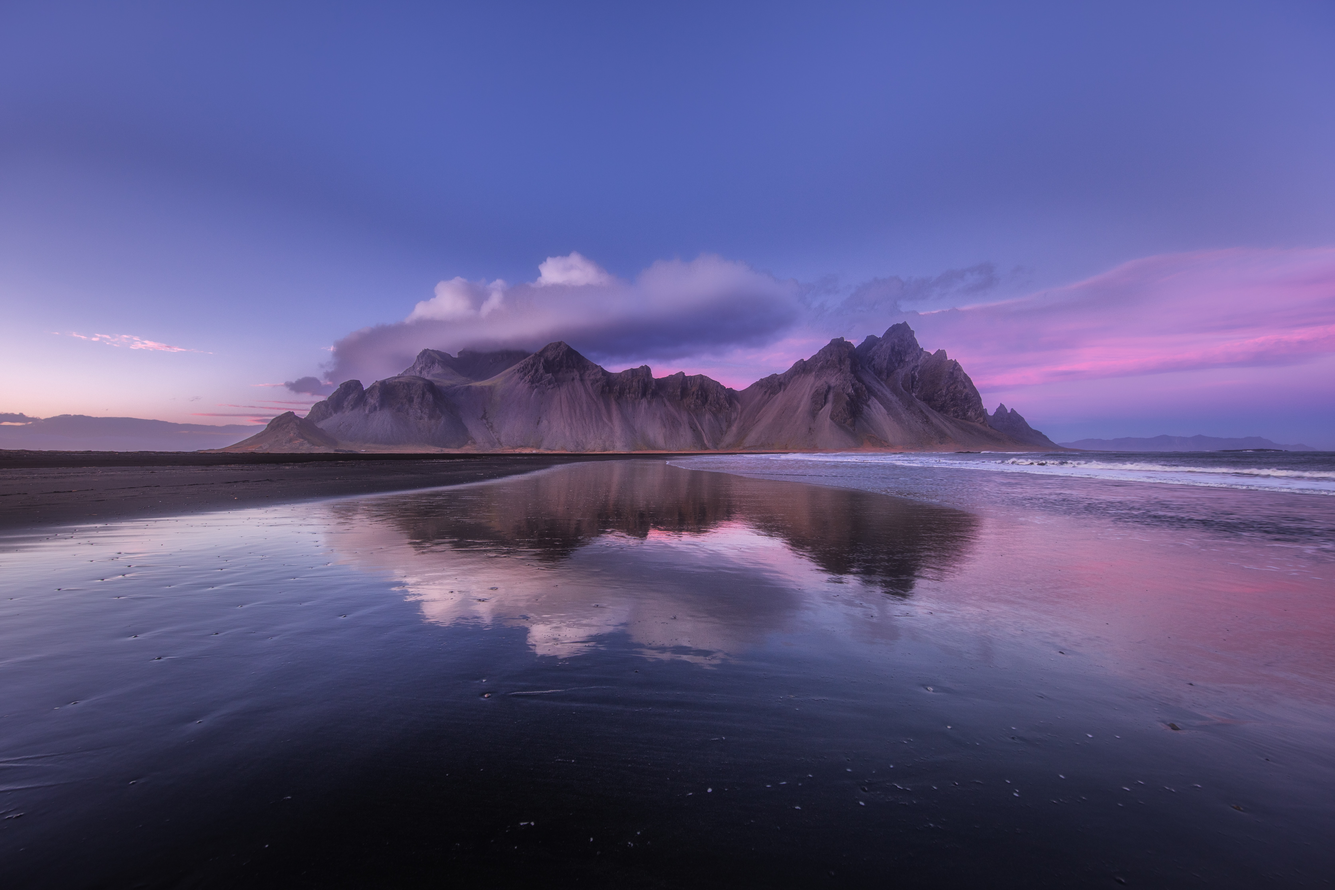
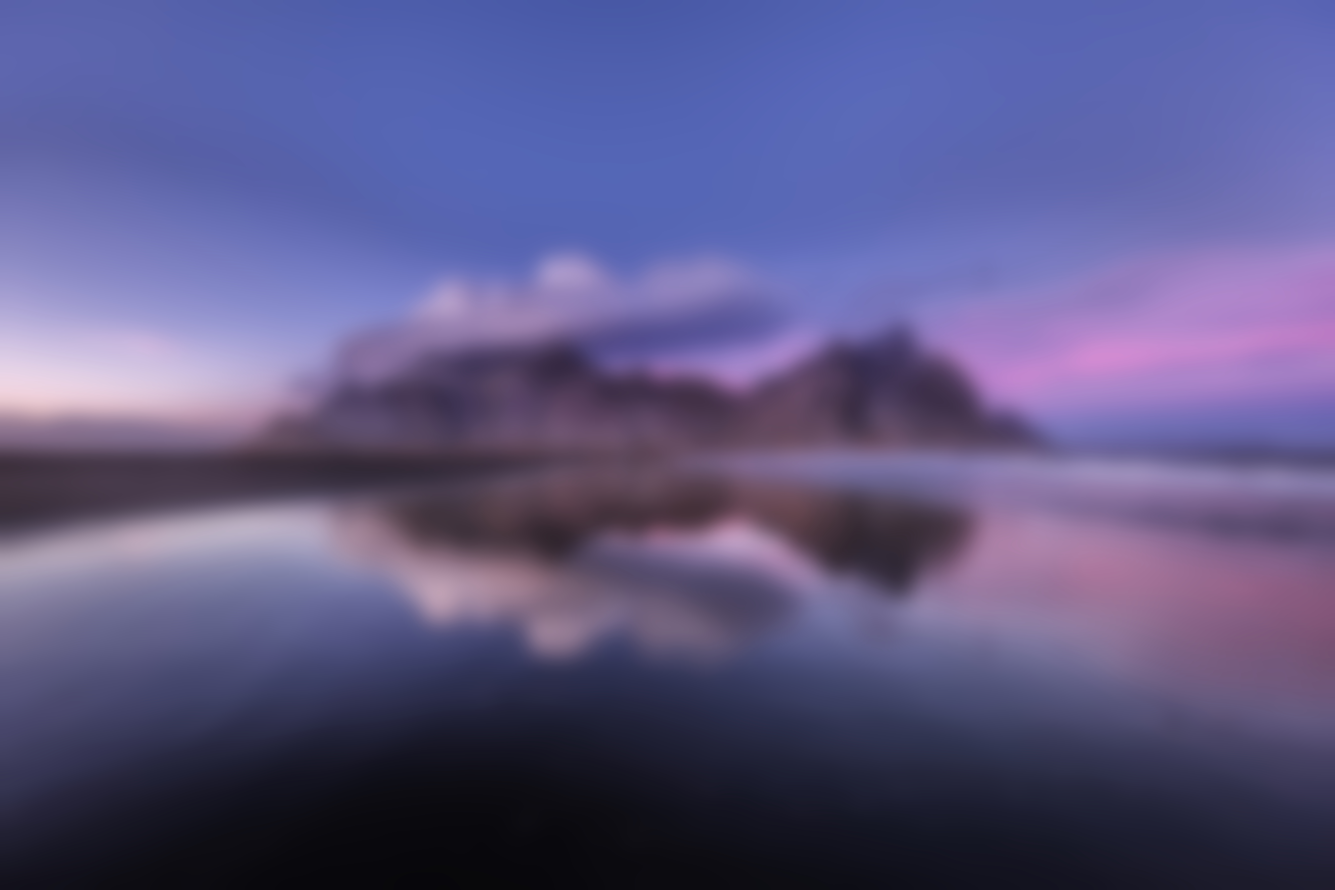
update

diff --git a/index.html b/index.html
@@ -5,44 +5,41 @@
         <meta http-equiv="X-UA-Compatible" content="IE=edge" />
         <meta name="viewport" content="width=device-width, initial-scale=1.0" />
         <link rel="stylesheet" href="./styles/style.css" />
-        <link rel="preconnect" href="https://fonts.googleapis.com" />
-        <link rel="preconnect" href="https://fonts.gstatic.com" crossorigin />
-        <link
-            href="https://fonts.googleapis.com/css2?family=Poppins:wght@300;500&display=swap"
-            rel="stylesheet"
-        />
         <title>erik s. | google books</title>
         <script type="module" src="./js/scripts.js" defer></script>
     </head>
     <body>
-        <div class="bg-image"></div>
-        <div class="container">
-            <a href="index.html">
-                <header class="header">
-                    <div id="googleLogo">
-                        <span>Google</span>
-                        <span>Books</span>
-                    </div>
-                </header>
-            </a>
-            <div class="search">
-                <form action="" class="search__form">
-                    <input
-                        type="text"
-                        placeholder="Search for books..."
-                        class="search__input"
-                    />
-                    <button type="submit" class="search__button">
-                        <i class="fas fa-search"></i>
-                    </button>
-                </form>
+        <div id="bg-image">
+            <div class="container">
+                <a href="index.html">
+                    <header class="header">
+                        <div>
+                            <span id="googleLogo">Google</span>
+                            <span>Books</span>
+                        </div>
+                    </header>
+                </a>
+                <div class="search">
+                    <form action="" class="search__form">
+                        <input
+                            class="search__input"
+                            type="text"
+                            placeholder="Search for books..."
+                        />
+                        <button class="search__button" type="submit">
+                            <i class="fas fa-search"></i>
+                        </button>
+                    </form>
+                </div>
+
+                <section class="search-result-header">
+                    <h2 class="search-header">
+                        Find the perfect book for you.
+                    </h2>
+                </section>
+
+                <section class="books-grid"></section>
             </div>
-
-            <section class="search-result-header">
-                <h2 class="search-header">Find the perfect book for you.</h2>
-            </section>
-
-            <section class="books-grid"></section>
         </div>
     </body>
 </html>

diff --git a/styles/style.scss b/styles/style.scss
@@ -1,3 +1,5 @@
+@use "./partials/typography";
+
 * {
     font-family: "Poppins", sans-serif;
     font-weight: 300;
@@ -10,10 +12,17 @@ body {
     background-color: #1f1f1f;
 }
 
-.bg-image {
+%remove-border {
+    background: none;
+    border: none;
+    outline: none;
+}
+
+#bg-image {
     background-image: url("../assets/backgrounds/bg1.jpg");
-    filter: blur(10px);
-    -webkit-filter: blur(10px);
+    background-size: cover;
+    height: 100%;
+    text-align: center;
 }
 
 .container {
@@ -33,35 +42,97 @@ body {
     }
 }
 
+#googleLogo {
+    display: flex;
+    flex-direction: row;
+    color: white;
+}
+
 a:link {
     text-decoration: none;
 }
 
-#googleLogo {
-    display: flex;
-    flex-direction: row;
-    color: #c5c7c6;
+a:hover {
+    opacity: 0.8;
+}
+
+a:visited {
+    color: white;
 }
 
 .search-result-header {
     h2 {
-        color: #c5c7c6;
-        letter-spacing: 2px;
+        color: white;
         margin-top: 50px;
         margin-bottom: 50px;
+    }
+}
+
+.search {
+    &__form {
+        input {
+            width: 400px;
+            padding: 10px 45px 10px 0;
+            @extend %remove-border;
+            border-bottom: 2px solid white;
+            color: white;
+            font-size: 20px;
+            word-spacing: 2px;
+            margin: 40px 0;
+        }
+
+        button {
+            margin-left: -20px;
+
+            @extend %remove-border;
+            &:hover {
+                cursor: pointer;
+            }
+            i {
+                color: white;
+                font-size: 20px;
+                line-height: 20px;
+            }
+        }
+    }
+
+    @media only screen and(max-width:414px) {
+        display: flex;
+        flex-direction: column;
+        input {
+            width: auto;
+            padding: 10px 10px 10px 0;
+            overflow: hidden;
+        }
+        button {
+            margin-left: 0;
+        }
+    }
+
+    @media only screen and(max-width:331px) {
+        display: flex;
+        flex-direction: column;
+        input {
+            width: 200px;
+            padding: 10px 10px 10px 0;
+            overflow: hidden;
+        }
+        button {
+            margin-left: 0;
+        }
     }
 }
 
 .books-grid {
     display: grid;
     grid-template-columns: repeat(3, 1fr);
-    gap: 20px;
-    color: #c5c7c6;
+    gap: 15px;
+    color: white;
 
-    @media only screen and(max-width: 985px) {
+    @media only screen and(max-width: 992px) {
         grid-template-columns: repeat(2, 1fr);
     }
-    @media only screen and(max-width:675px) {
+    @media only screen and(max-width:576px) {
         grid-template-columns: 1fr;
     }
 }

diff --git a/styles/style.css b/styles/style.css
@@ -1,3 +1,4 @@
+@import url("https://fonts.googleapis.com/css2?family=Poppins:wght@300;500&display=swap");
 * {
   font-family: "Poppins", sans-serif;
   font-weight: 300;
@@ -10,10 +11,17 @@ body {
   background-color: #1f1f1f;
 }
 
-.bg-image {
+.search__form button, .search__form input {
+  background: none;
+  border: none;
+  outline: none;
+}
+
+#bg-image {
   background-image: url("../assets/backgrounds/bg1.jpg");
-  filter: blur(10px);
-  -webkit-filter: blur(10px);
+  background-size: cover;
+  height: 100%;
+  text-align: center;
 }
 
 .container {
@@ -33,35 +41,91 @@ body {
   font-size: 3rem;
 }
 
+#googleLogo {
+  display: flex;
+  flex-direction: row;
+  color: white;
+}
+
 a:link {
   text-decoration: none;
 }
 
-#googleLogo {
-  display: flex;
-  flex-direction: row;
-  color: #c5c7c6;
+a:hover {
+  opacity: 0.8;
+}
+
+a:visited {
+  color: white;
 }
 
 .search-result-header h2 {
-  color: #c5c7c6;
-  letter-spacing: 2px;
+  color: white;
   margin-top: 50px;
   margin-bottom: 50px;
+}
+
+.search__form input {
+  width: 400px;
+  padding: 10px 45px 10px 0;
+  border-bottom: 2px solid white;
+  color: white;
+  font-size: 20px;
+  word-spacing: 2px;
+  margin: 40px 0;
+}
+.search__form button {
+  margin-left: -20px;
+}
+.search__form button:hover {
+  cursor: pointer;
+}
+.search__form button i {
+  color: white;
+  font-size: 20px;
+  line-height: 20px;
+}
+@media only screen and (max-width: 414px) {
+  .search {
+    display: flex;
+    flex-direction: column;
+  }
+  .search input {
+    width: auto;
+    padding: 10px 10px 10px 0;
+    overflow: hidden;
+  }
+  .search button {
+    margin-left: 0;
+  }
+}
+@media only screen and (max-width: 331px) {
+  .search {
+    display: flex;
+    flex-direction: column;
+  }
+  .search input {
+    width: 200px;
+    padding: 10px 10px 10px 0;
+    overflow: hidden;
+  }
+  .search button {
+    margin-left: 0;
+  }
 }
 
 .books-grid {
   display: grid;
   grid-template-columns: repeat(3, 1fr);
-  gap: 20px;
-  color: #c5c7c6;
+  gap: 15px;
+  color: white;
 }
-@media only screen and (max-width: 985px) {
+@media only screen and (max-width: 992px) {
   .books-grid {
     grid-template-columns: repeat(2, 1fr);
   }
 }
-@media only screen and (max-width: 675px) {
+@media only screen and (max-width: 576px) {
   .books-grid {
     grid-template-columns: 1fr;
   }

diff --git a/js/scripts.js b/js/scripts.js
@@ -1,0 +1,19 @@
+const background = document.querySelector("#bg-image");
+
+const randomImg = () => {
+    let images = [
+        "../assets/backgrounds/bg1.jpg",
+        "../assets/backgrounds/bg2.jpg",
+        "../assets/backgrounds/bg3.jpg",
+        "../assets/backgrounds/bg4.jpg",
+    ];
+    let numOfImg = images.length;
+    let i = Math.floor(numOfImg * Math.random());
+    const url = `${images[i]}`;
+    console.log(url);
+    background.style["background-image"].url = url;
+};
+
+document.addEventListener("DOMContentLoaded", () => {
+    randomImg();
+});

diff --git a/js/modules/getBooks.js b/js/modules/getBooks.js
@@ -1,0 +1,6 @@
+const getBooks = async (url, searchTerm) => {
+  const response = await fetch(`${url}+${searchTerm}`);
+  const data = await response.json();
+  return data.items;
+};
+export default getBooks;

diff --git a/styles/partials/_typography.scss b/styles/partials/_typography.scss
@@ -1,0 +1,1 @@
+@import url("https://fonts.googleapis.com/css2?family=Poppins:wght@300;500&display=swap");

diff --git a/README.md b/README.md
@@ -46,7 +46,7 @@ Application Design (required):
 -   Always use iterators over loops
 -   Always parametrize and abstract large pieces of duplicate code.
 
-Bonus (__optional, but highly recommended__):
+Bonus (**optional, but highly recommended**):
 
 -   Give feedback to the user when no book results can be found for the query.
 -   When a user clicks a book in the grid, a modal should appear with more book information, think about release, publish date, country, languages, etc.
